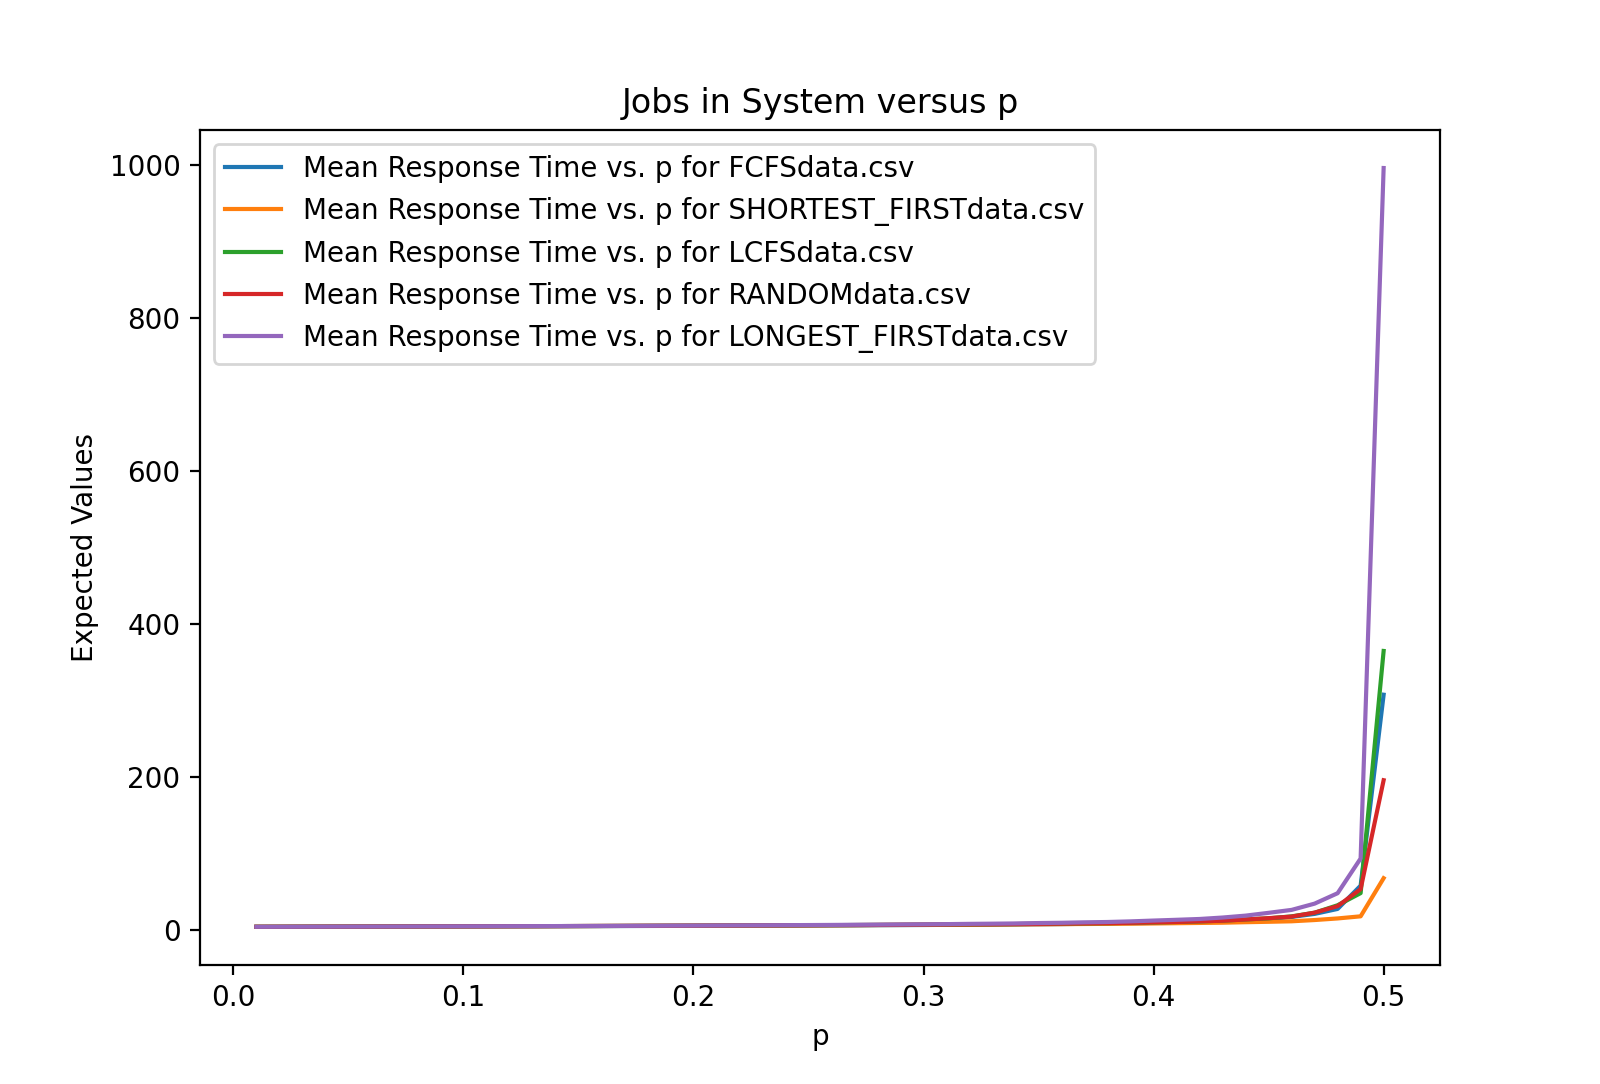
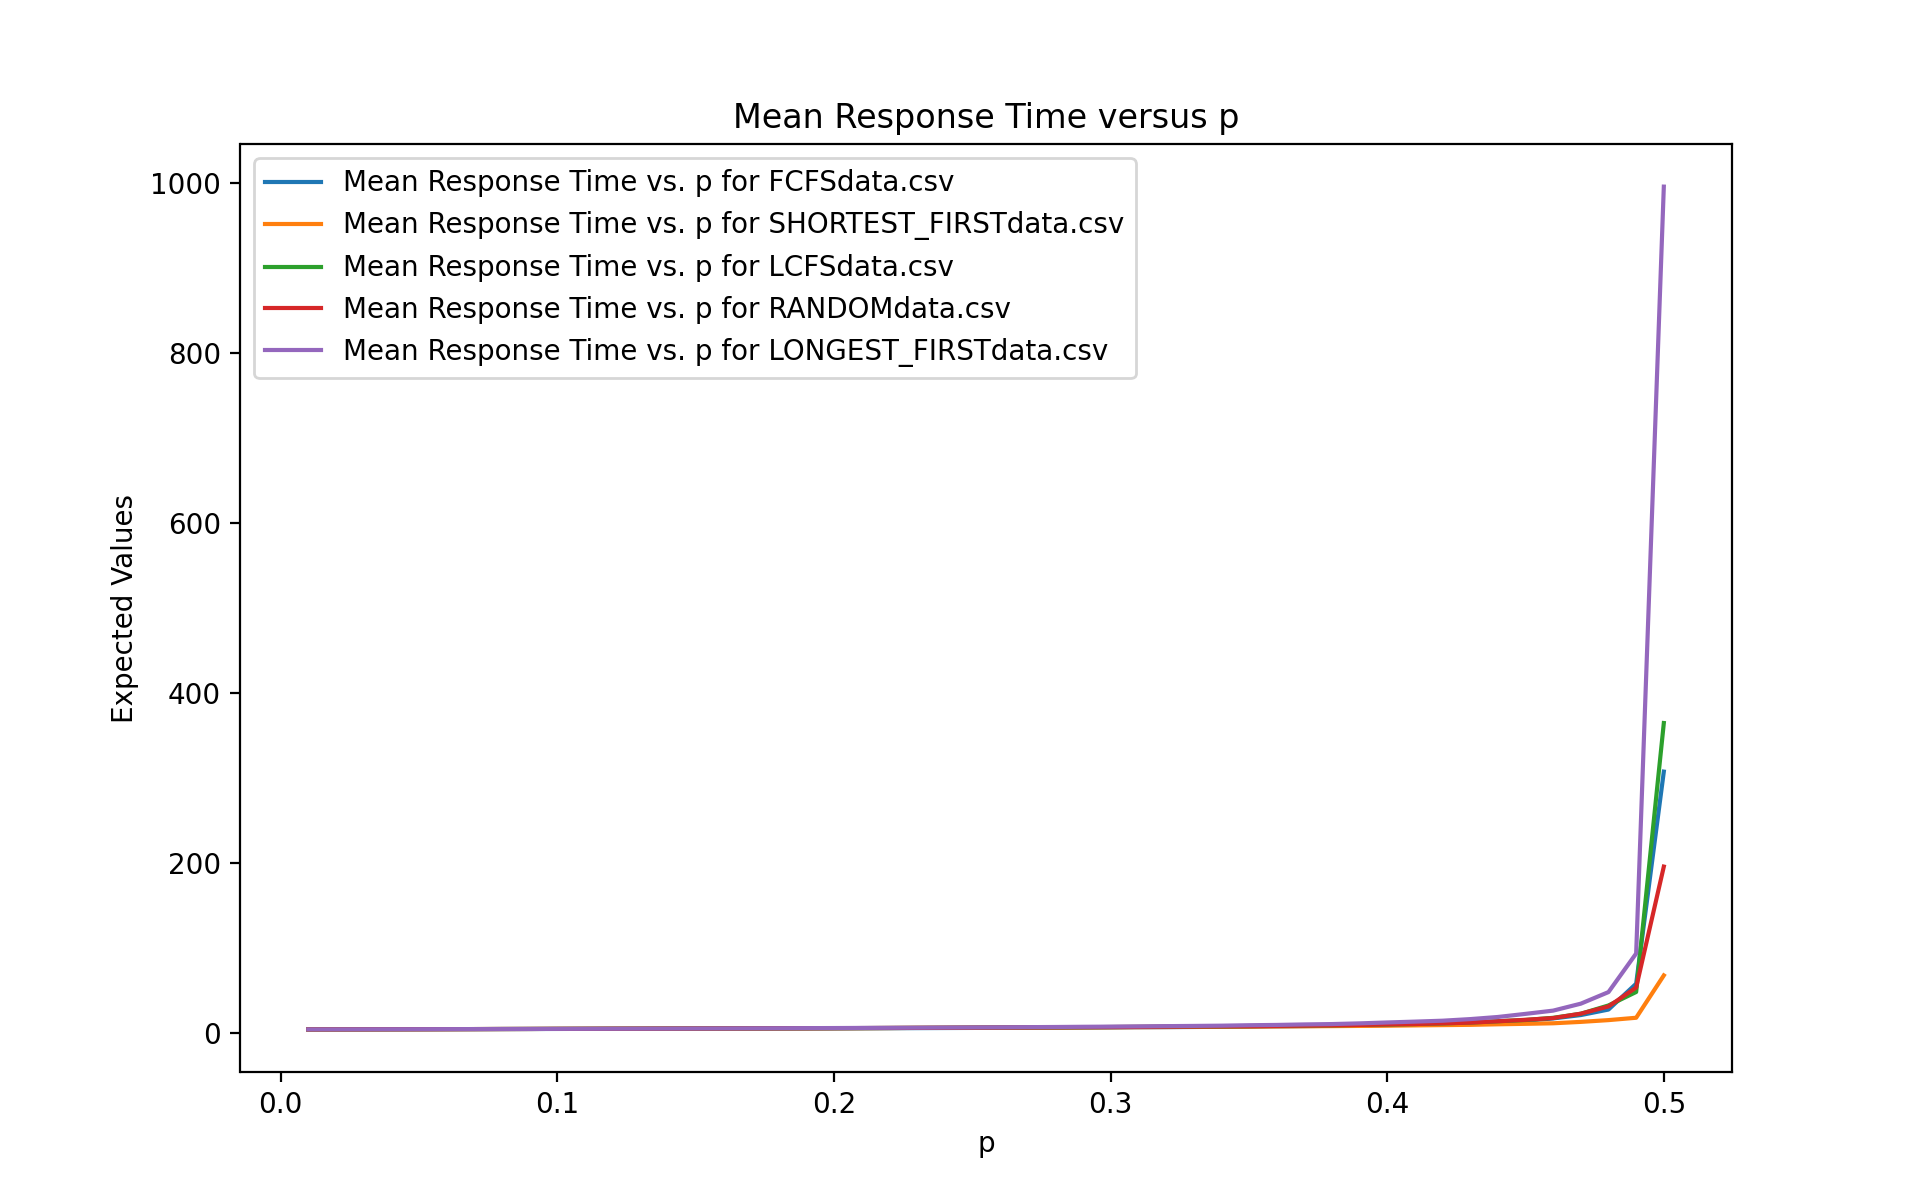
fixed graphs again

diff --git a/graphing.py b/graphing.py
@@ -13,14 +13,14 @@ for fname in sublist:
     data = pd.read_csv(fname)
 
     x = data['p']
-    E_N = data['E[N]']
-    #E_T = data['E[T]']
+    #E_N = data['E[N]']
+    E_T = data['E[T]']
 
-    labelN = "Mean Jobs in System vs. p for " + fname
-    #labelT = "Mean Response Time vs. p for " + fname
+    #labelN = "Mean Jobs in System vs. p for " + fname
+    labelT = "Mean Response Time vs. p for " + fname
 
-    plt.plot(x, E_N, label = labelN)
-    #plt.plot(x, E_T, label = labelT)
+    #plt.plot(x, E_N, label = labelN)
+    plt.plot(x, E_T, label = labelT)
 
 
 '''
@@ -36,13 +36,13 @@ plt.plot(verifyP, vet)
 '''
 
 plt.legend(loc = "best")
-plt.title("Jobs in System versus p")
+plt.title("Mean Response Time versus p")
 plt.xlabel("p")
 plt.ylabel("Expected Values")
 
 
 #this line for more focus on the upper end where the data change
-plt.xlim(.44, .50)
+#plt.xlim(.44, .50)
 
 plt.show()
 
